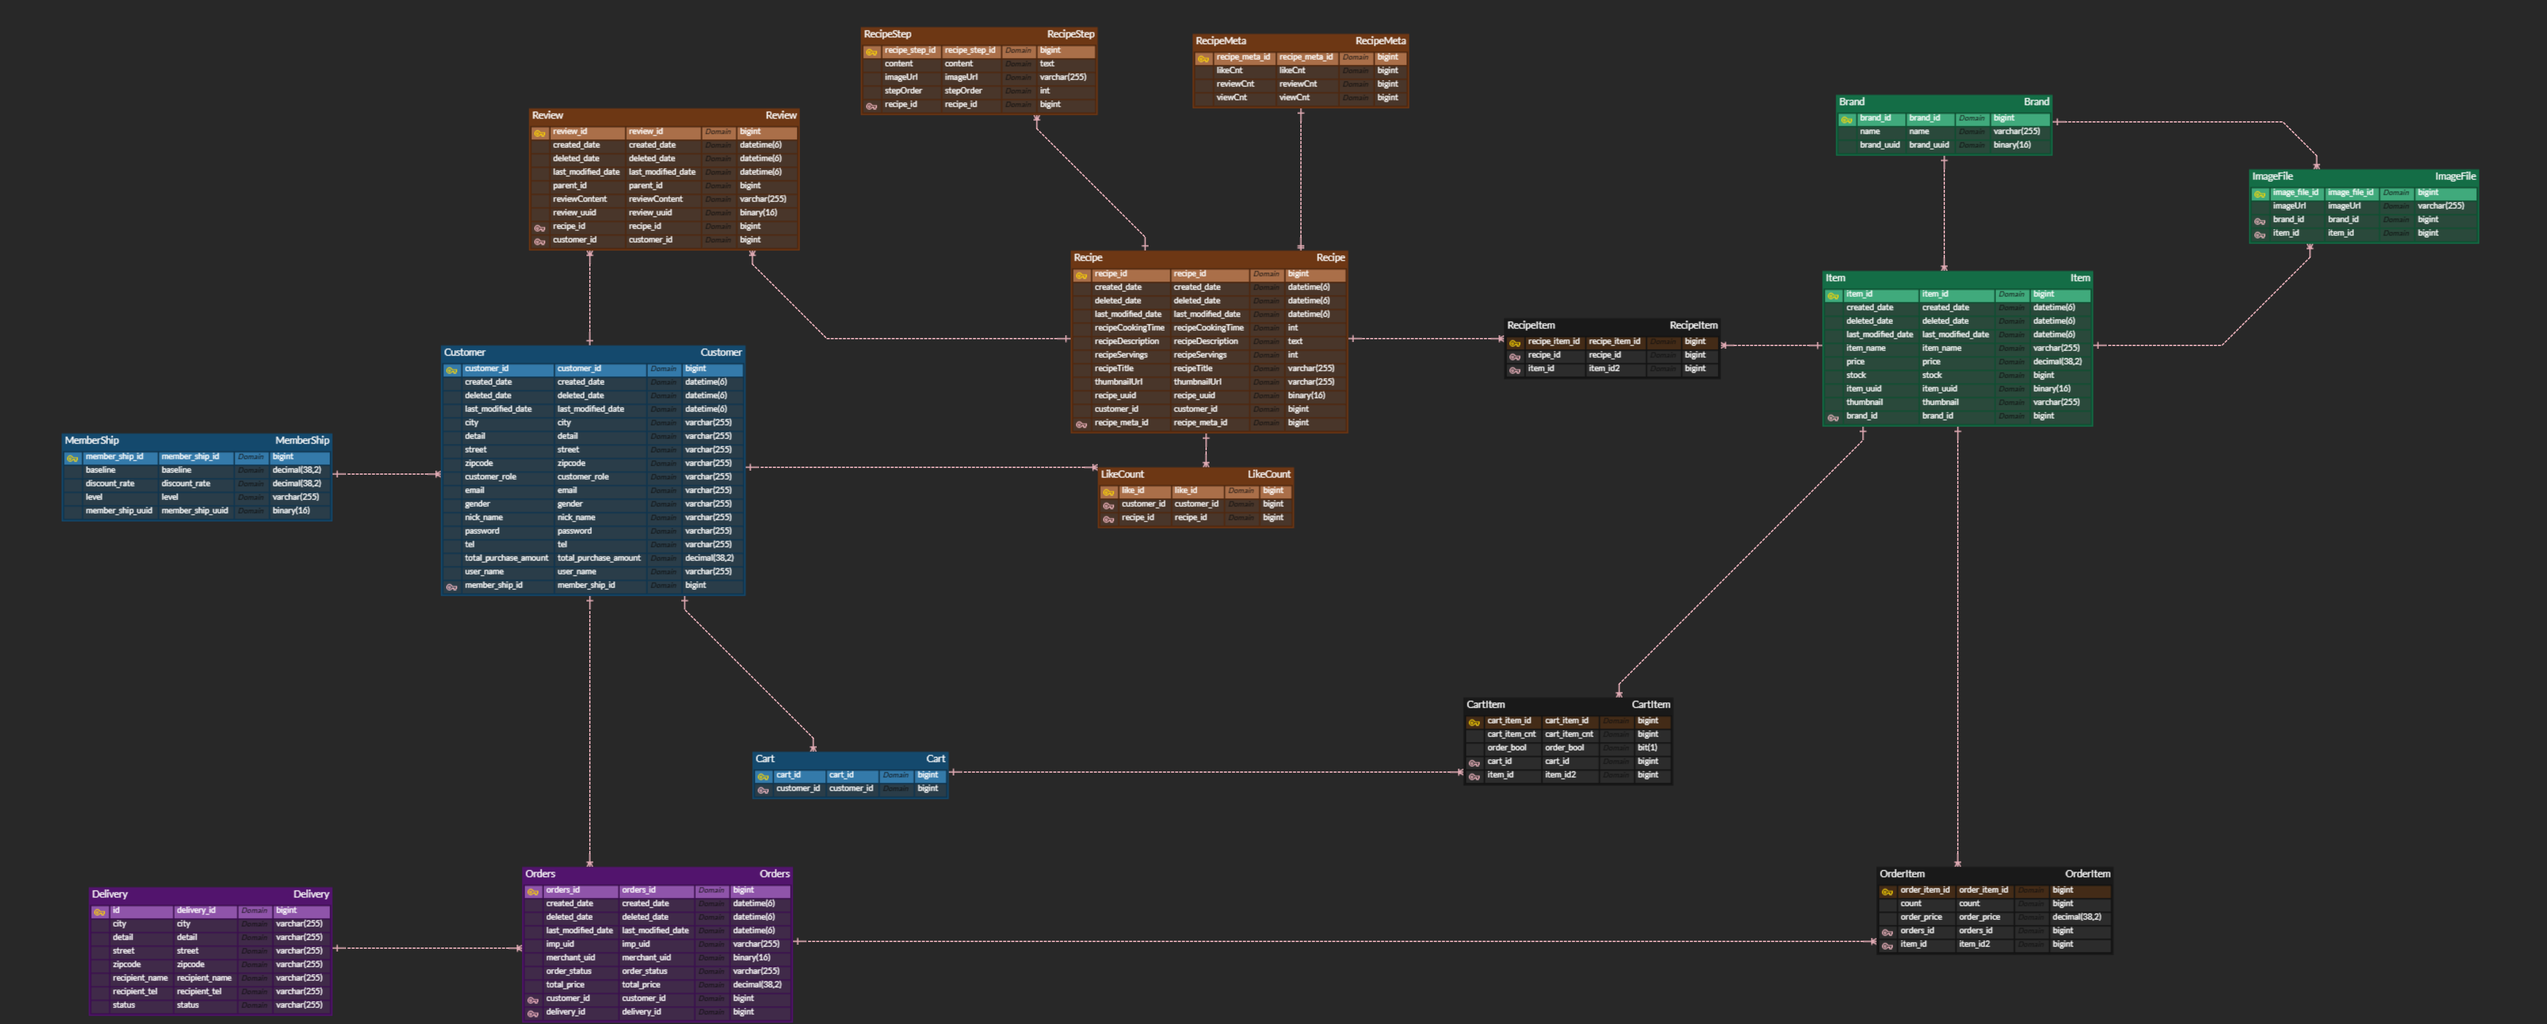
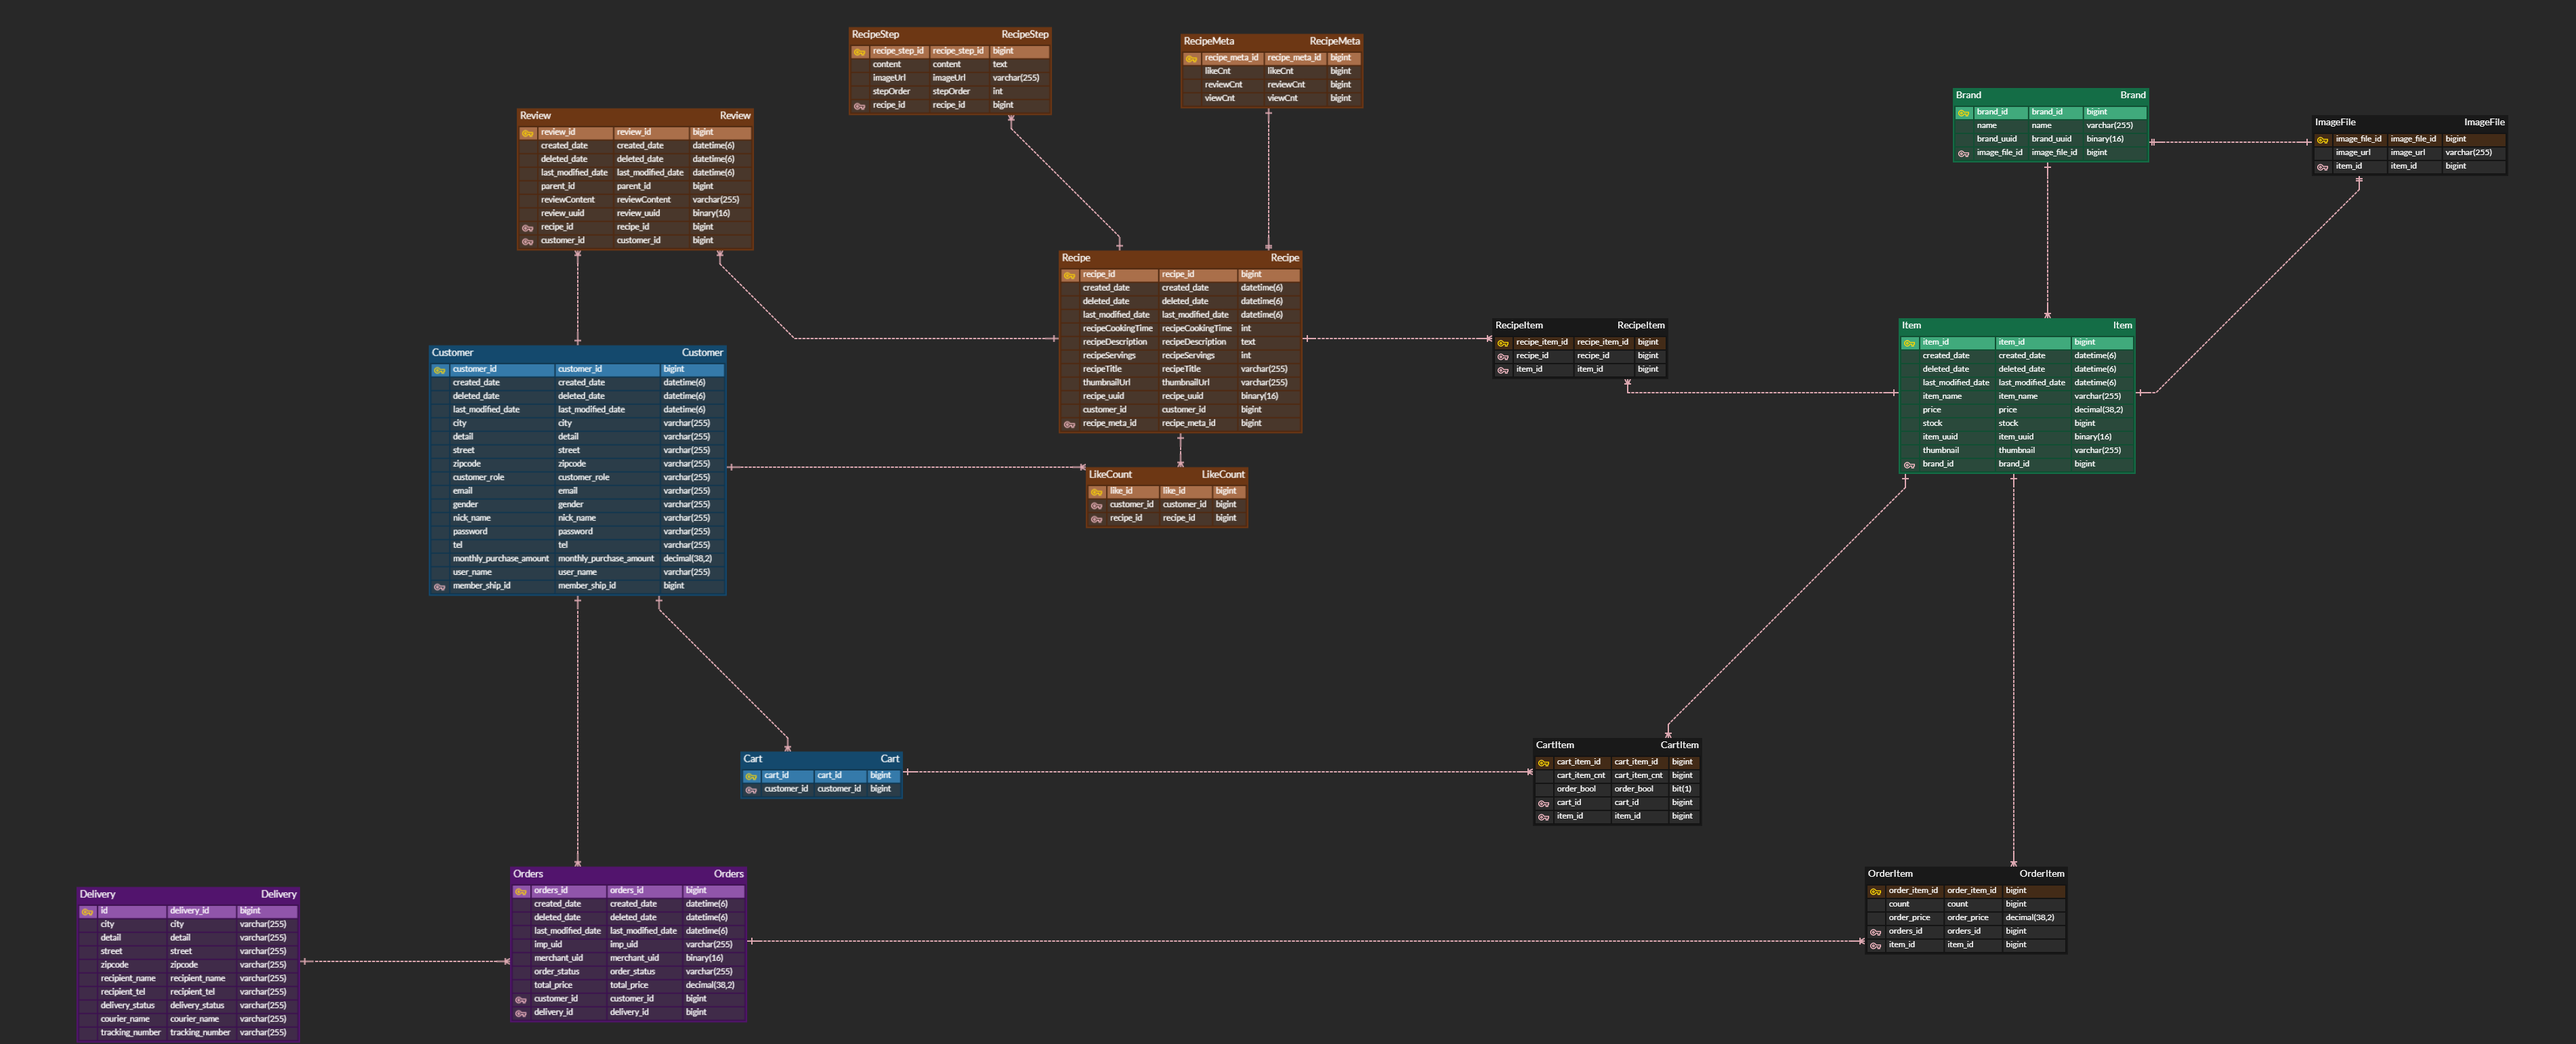
[Docs] 기술 스택 수정 및 erd 이미지 변경

diff --git a/README.md b/README.md
@@ -14,10 +14,20 @@
 - Spring Data JPA
 - Spring Security
 - QueryDsl 5.1.0
+
+**Database**
+
 - MySQL 8.0.33
 - Redis 7.0
 
-**배포**
+**Testing**
+
+- JUnit5
+- Mockito
+- Jacoco
+- JMeter
+
+**Deployment**
 
 - Git Actions
 - Docker
